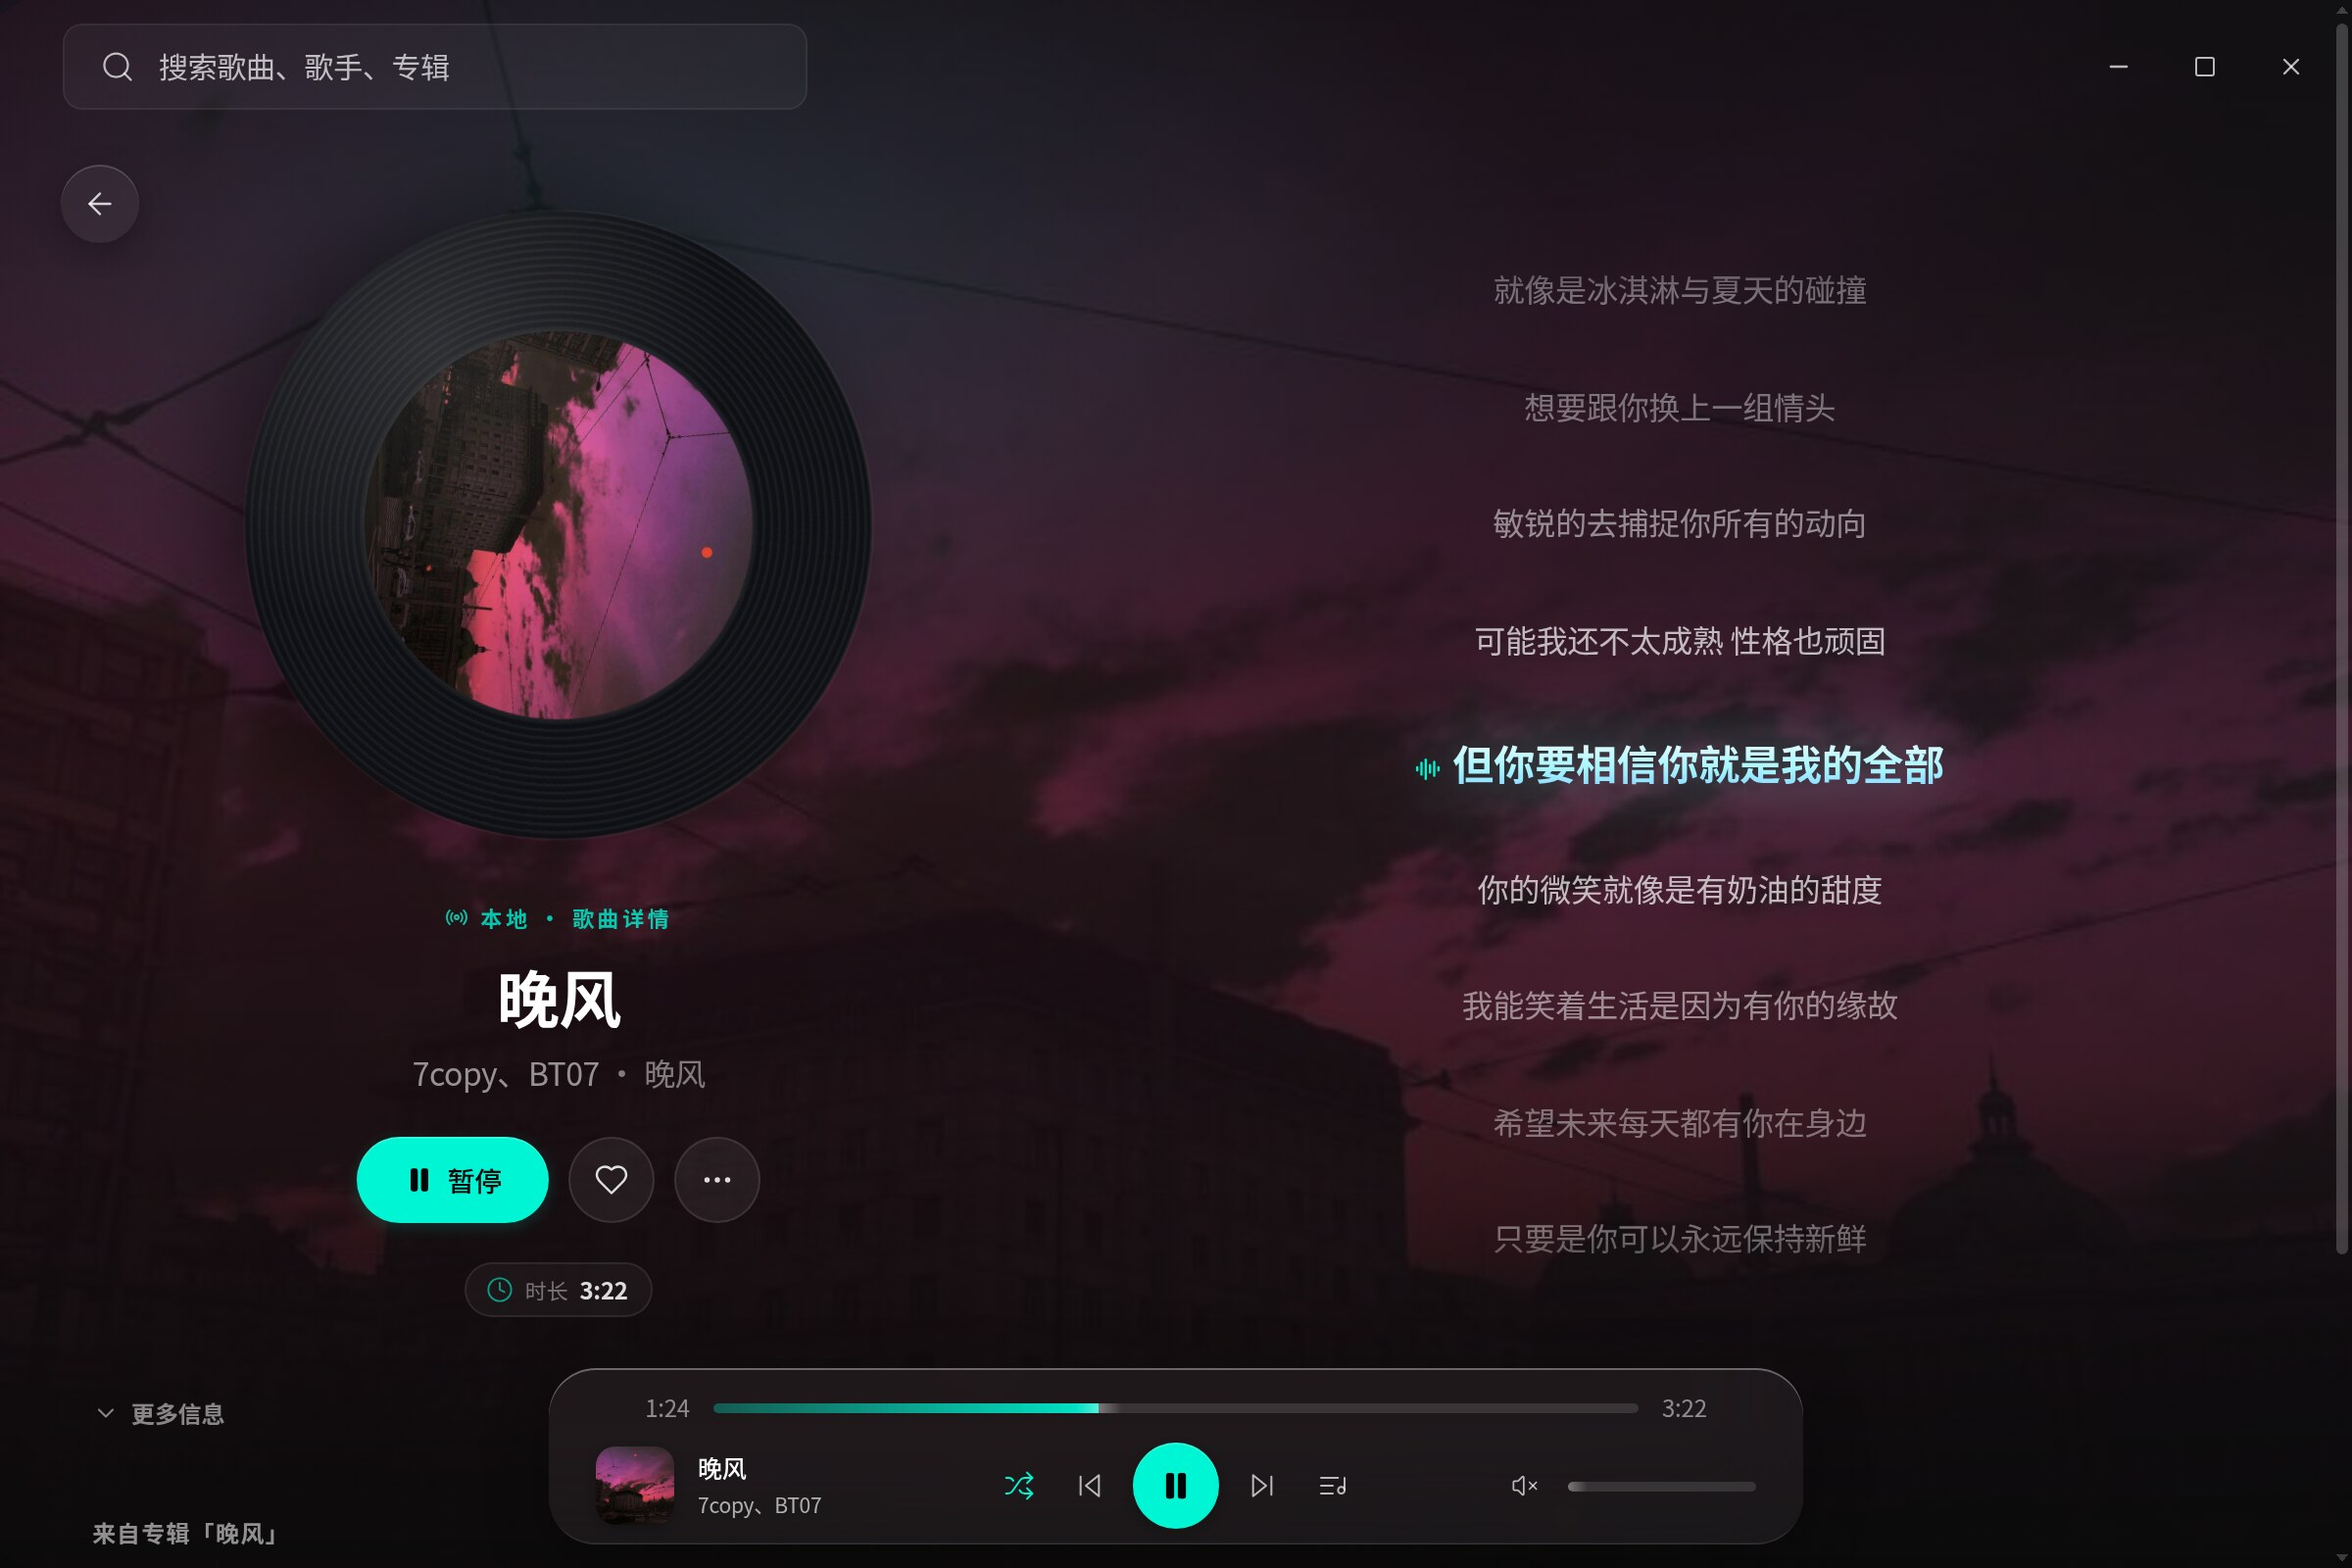
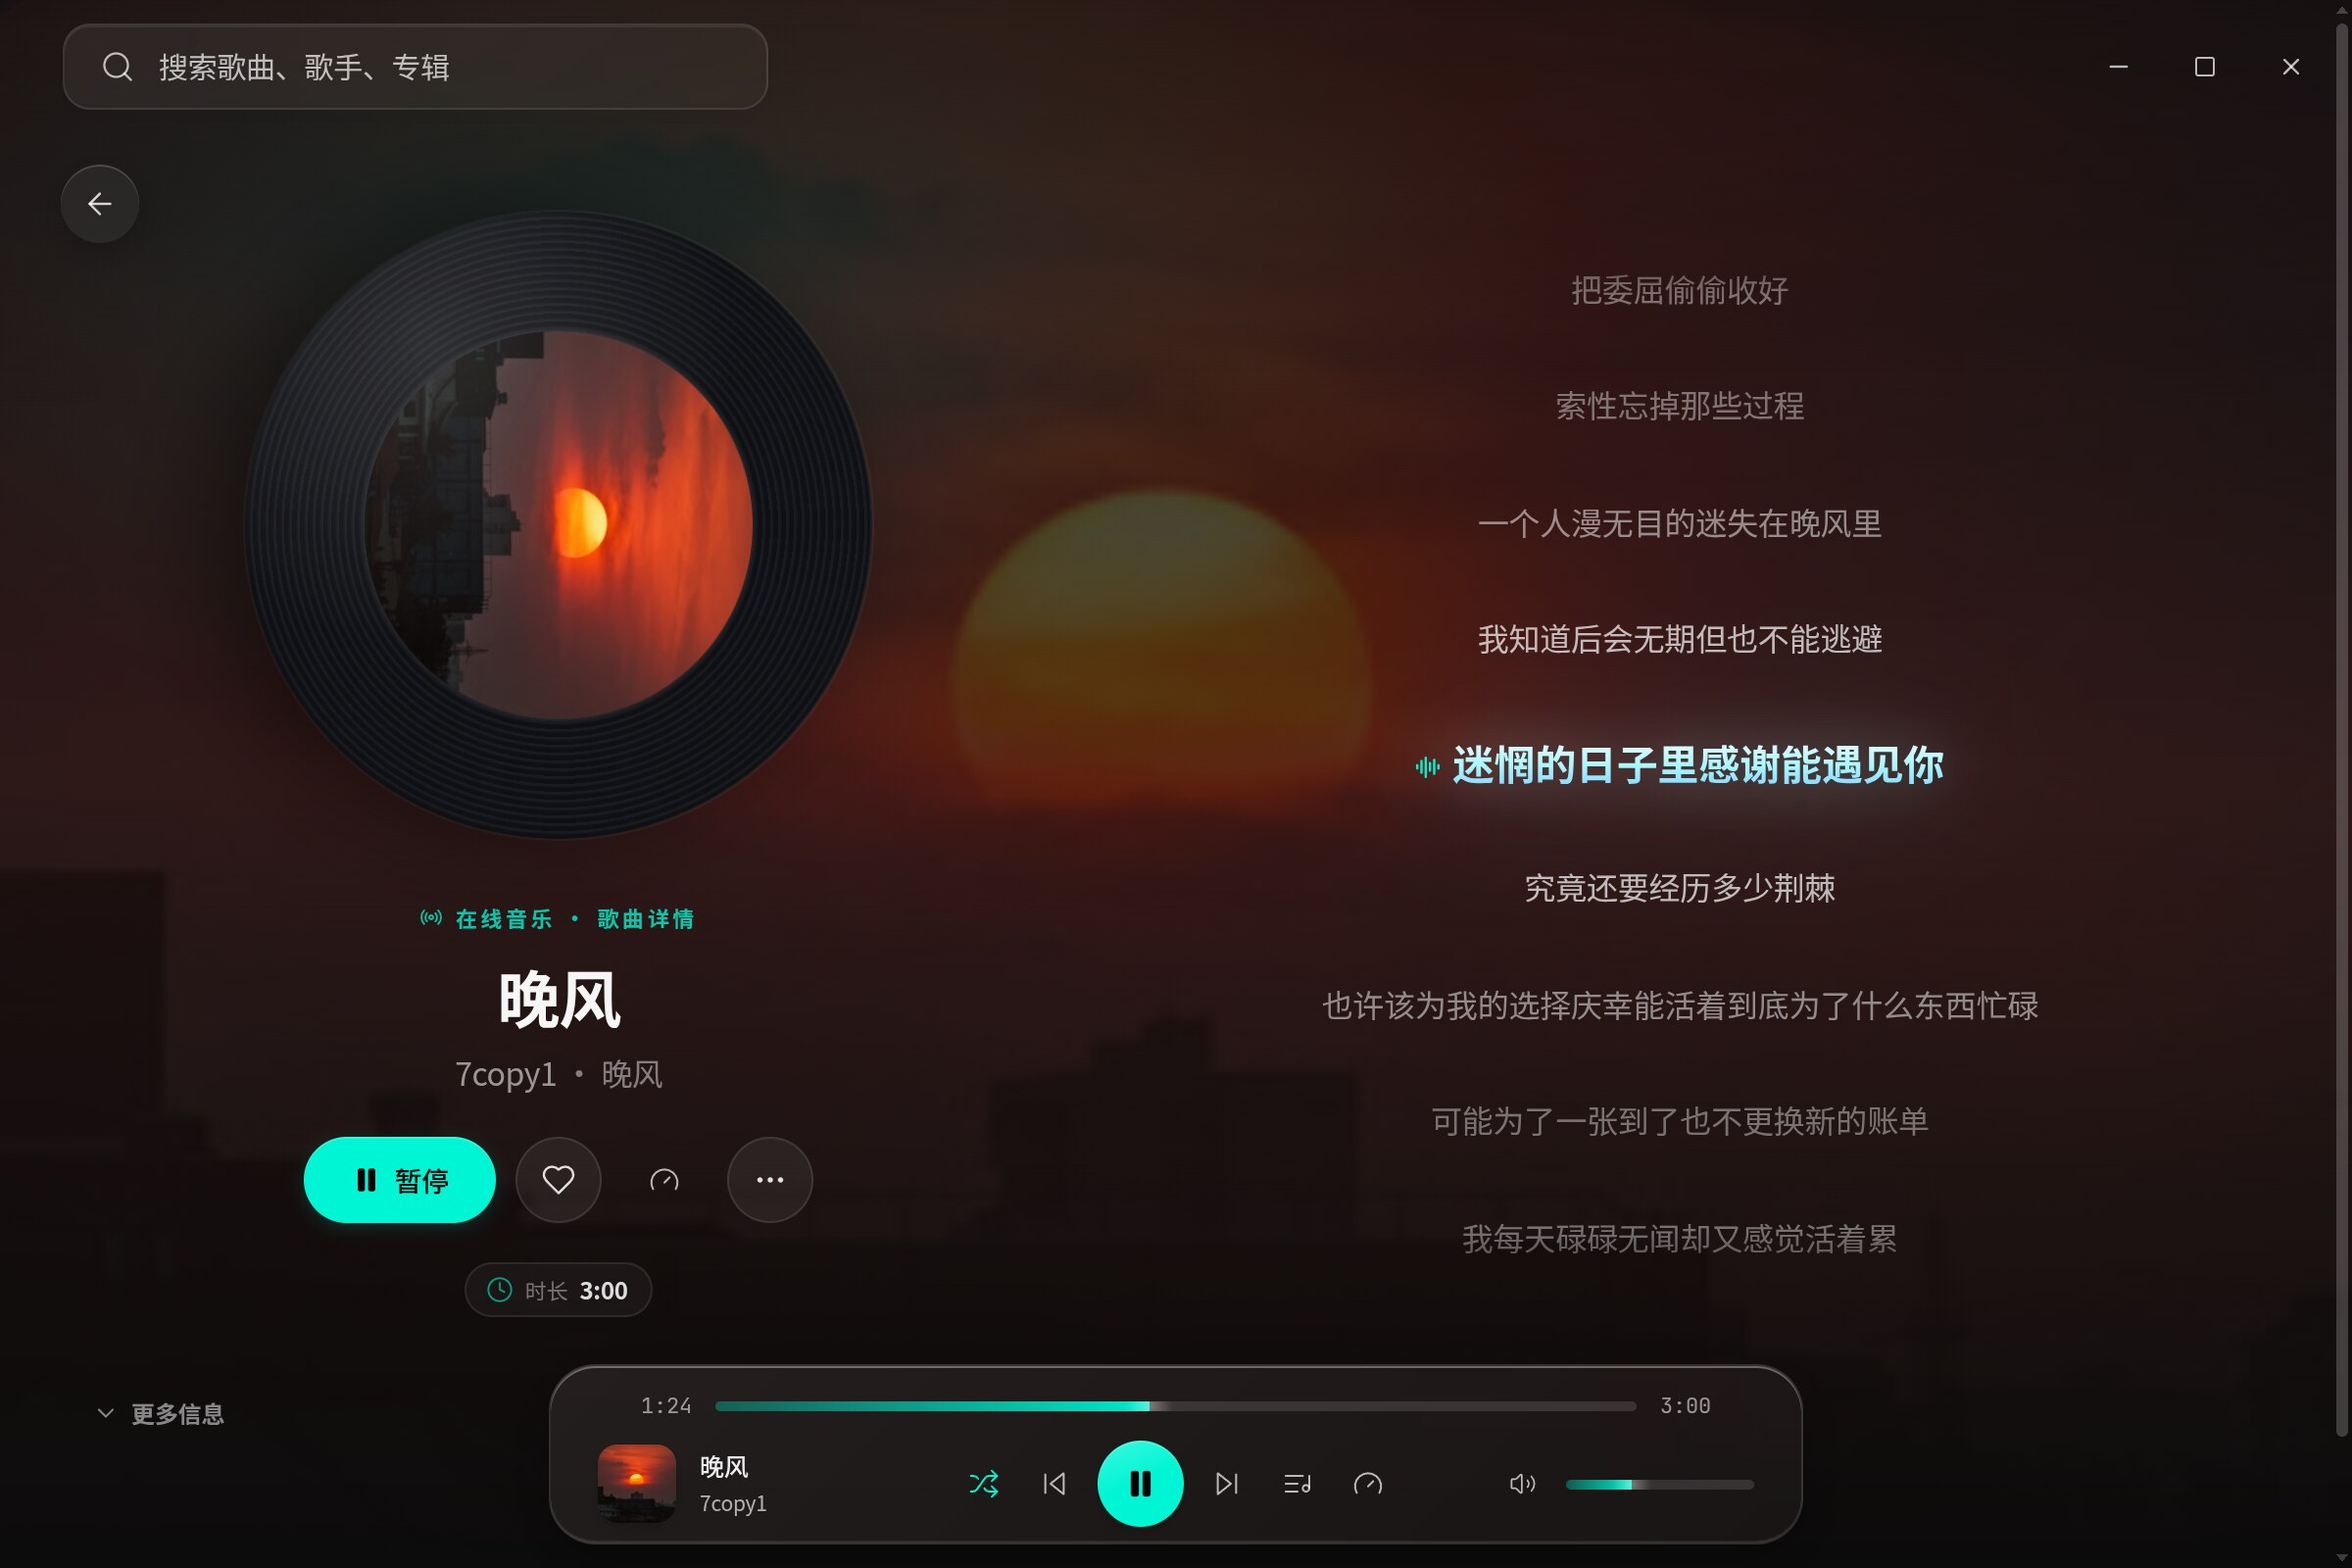
docs(readme): 更新四张截图至 0.7.10，设置页改为展示插件分区

diff --git a/README.md b/README.md
@@ -13,7 +13,7 @@
 
 ## 截图
 
-**桌面端** — 音乐库 / 播放详情 / 设置（在线音源）
+**桌面端** — 音乐库 / 播放详情 / 设置（插件）
 
 <p align="center"><img src="./screenshots/hall.jpg" width="760" alt="音乐库"></p>
 

diff --git a/README.en.md b/README.en.md
@@ -13,7 +13,7 @@
 
 ## Screenshots
 
-**Desktop** — online library / now playing / settings
+**Desktop** — online library / now playing / settings (plugins)
 
 <p align="center"><img src="./screenshots/hall.jpg" width="760" alt="Online library"></p>
 
